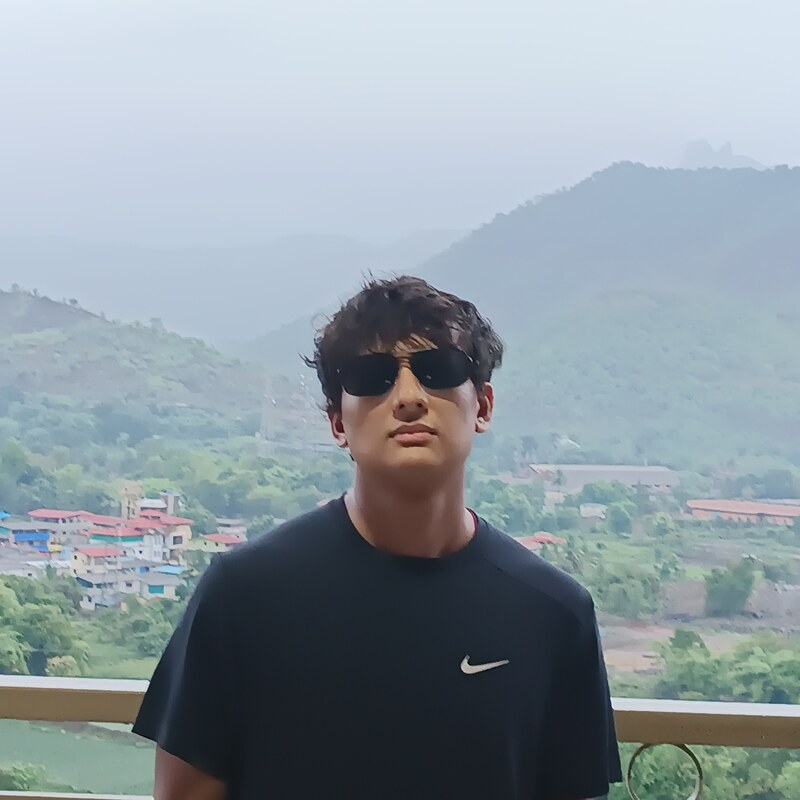
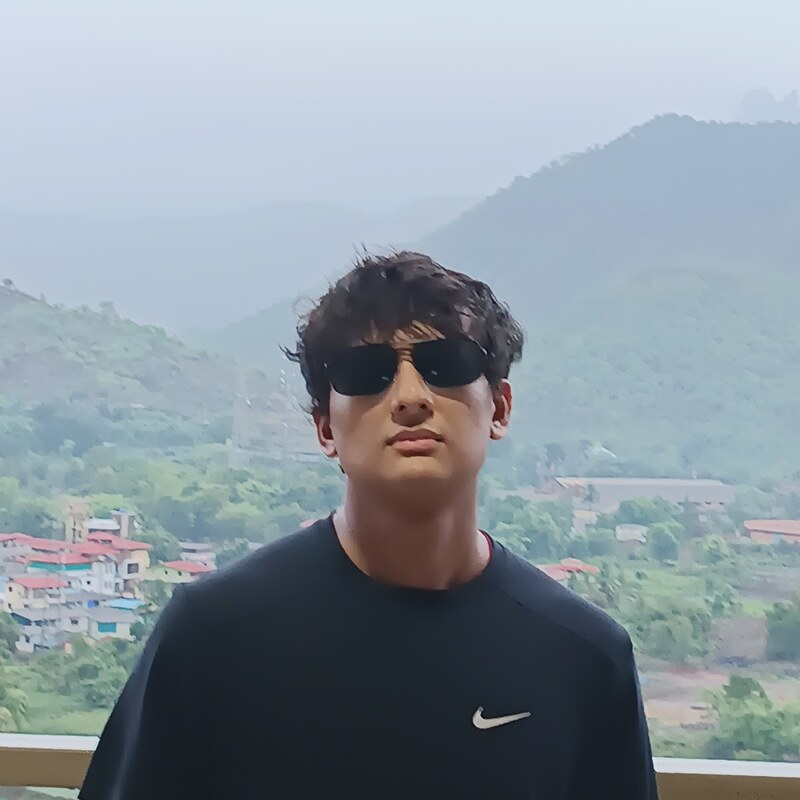
Zoom profile photo in further

diff --git a/index.html b/index.html
@@ -38,7 +38,7 @@
       <!-- Header -->
       <header class="header-section">
         <div class="profile-row">
-          <img src="images/profile.jpg" class="profilepic" alt="Rahul Chand" />
+          <img src="images/profile.jpg?v=2" class="profilepic" alt="Rahul Chand" />
           <div class="header-info">
             <h1 class="name">
               <span class="text-tooltip">Rahul<span class="tooltip-text">Rahul is the name Buddha gave to his son (it also means silver)</span></span>
